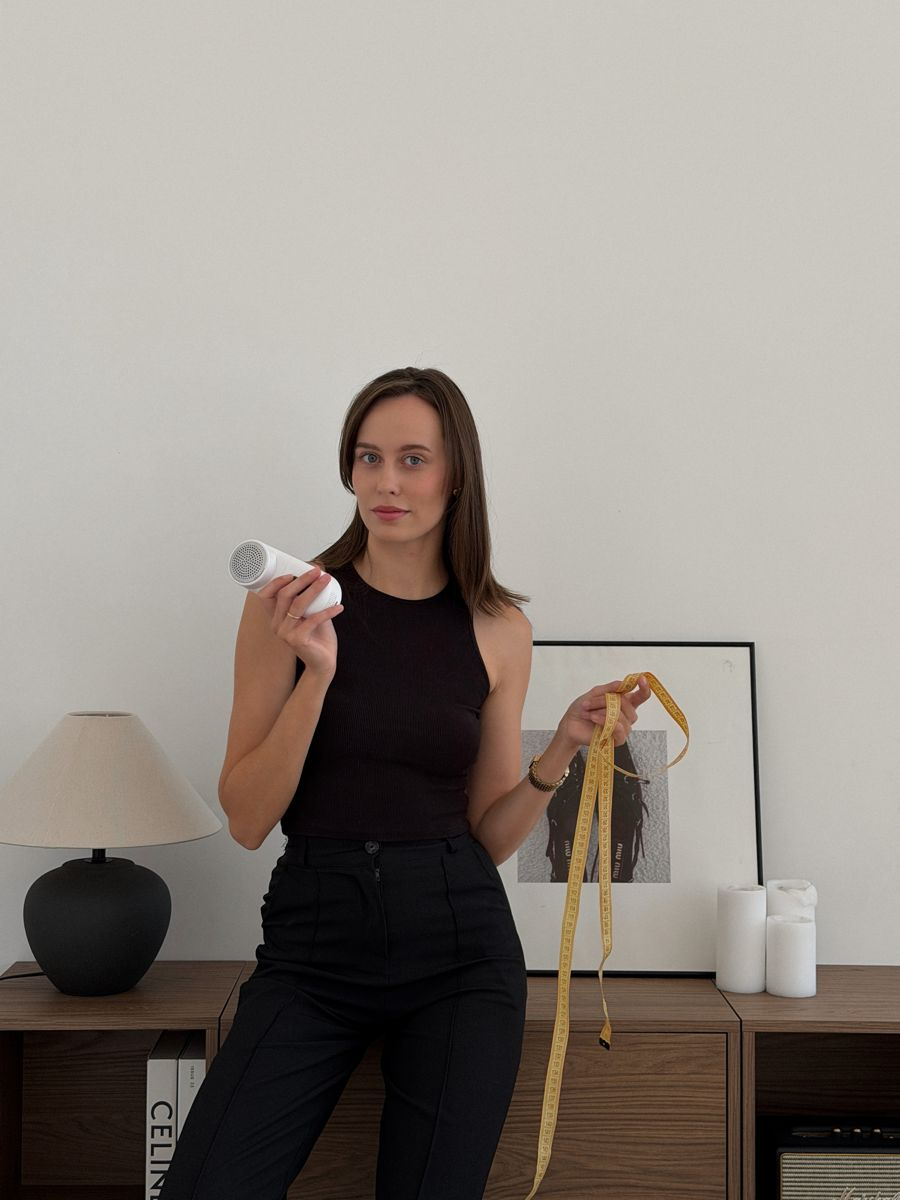
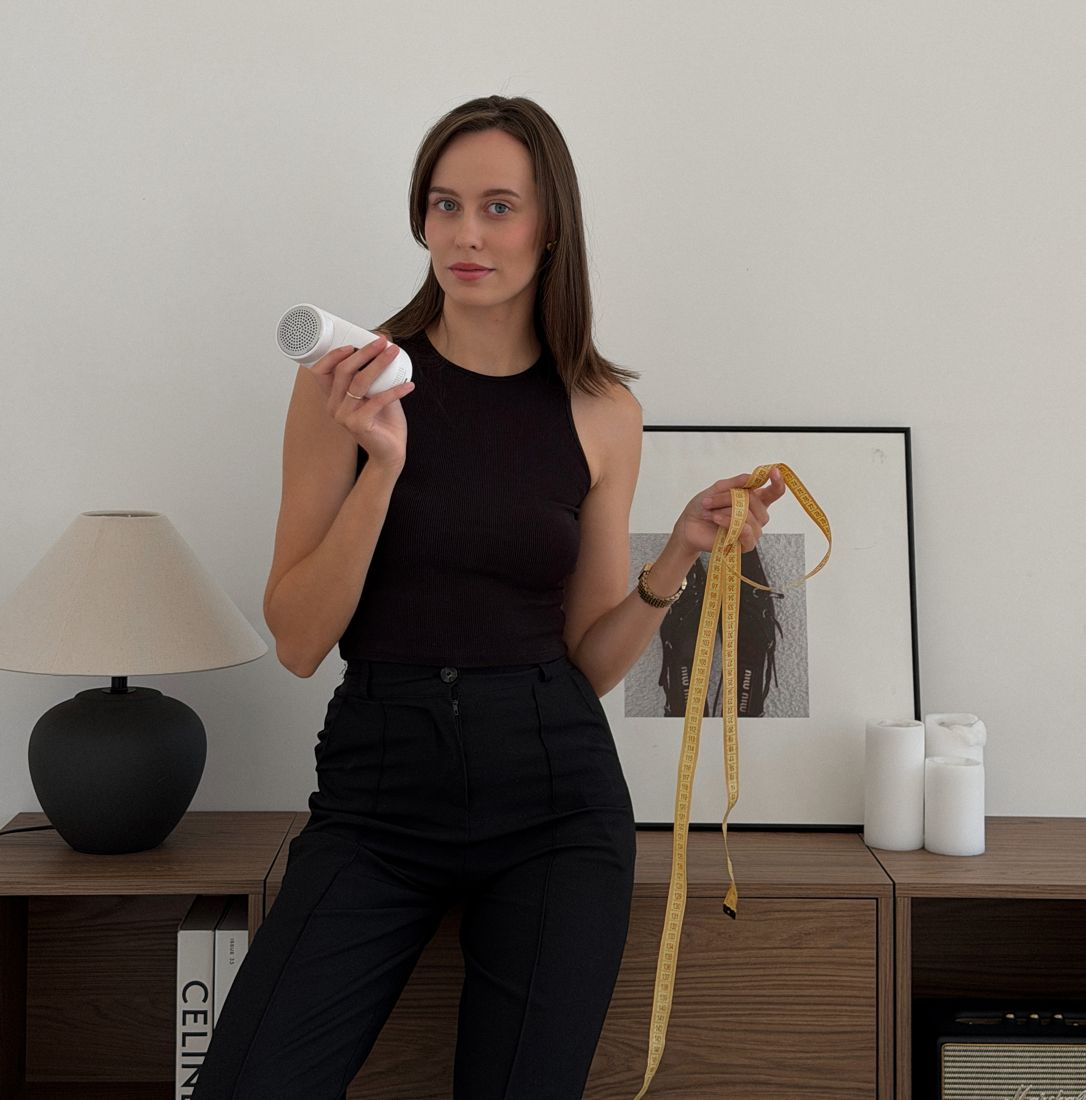
Крупное фото в «Привет, я Лиза»; фото-пауза без пустоты и затемнения на лице

diff --git a/index.html b/index.html
@@ -58,11 +58,13 @@
 
 /* ============ 2. ОБО МНЕ (письмо) ============ */
 .ek-letter{background:var(--sand)}
-.ek-letter .head{display:flex;gap:16px;align-items:center;margin:18px 0 20px}
-.ek-letter .ava{width:92px;height:112px;flex:0 0 92px;border-radius:18px;overflow:hidden}
-.ek-letter .ava img{width:100%;height:100%;object-fit:cover;object-position:40% 30%;display:block}
-.ek-letter .head h2{margin:0 0 6px}
-.ek-letter .role{font-size:13px;color:var(--muted);line-height:1.4}
+.ek-letter .me-photo{position:relative;border-radius:22px;overflow:hidden;height:440px;margin:16px 0 22px;background:#d9d4cc}
+.ek-letter .me-photo img{width:100%;height:100%;object-fit:cover;object-position:40% 20%;display:block}
+.ek-letter .me-photo:after{content:'';position:absolute;inset:0;background:linear-gradient(0deg,rgba(24,23,21,.85) 0%,rgba(24,23,21,.35) 30%,transparent 50%)}
+.ek-letter .me-cap{position:absolute;z-index:1;left:18px;right:18px;bottom:18px;color:#fff}
+.ek-letter .me-cap h2{margin:0 0 6px;color:#fff}
+.ek-letter .me-cap h2 em{color:#f1cdbd}
+.ek-letter .role{font-size:13.5px;line-height:1.4;color:#e9e2d6}
 .ek-letter p+p{margin-top:14px}
 .ek-letter .nums{display:grid;grid-template-columns:repeat(3,1fr);gap:8px;margin:20px 0}
 .ek-letter .nums div{background:var(--paper);border-radius:14px;padding:12px 10px}
@@ -249,9 +251,9 @@
 .ek-calc .hint b{color:var(--ink)}
 
 /* ============ 10. ФОТО-ПАУЗА ============ */
-.ek-break{position:relative;height:540px;overflow:hidden}
+.ek-break{position:relative;height:500px;overflow:hidden}
 .ek-break img{width:100%;height:100%;object-fit:cover;object-position:50% 0%;display:block}
-.ek-break:after{content:'';position:absolute;inset:0;background:linear-gradient(0deg,rgba(24,23,21,.9) 0%,rgba(24,23,21,.6) 38%,transparent 62%)}
+.ek-break:after{content:'';position:absolute;inset:0;background:linear-gradient(0deg,rgba(24,23,21,.92) 0%,rgba(24,23,21,.7) 30%,transparent 50%)}
 .ek-break p{position:absolute;z-index:1;bottom:28px;left:22px;right:22px;font-size:21px;font-weight:800;line-height:1.3;color:#fff;letter-spacing:-.02em}
 .ek-break p em{font-style:normal;color:#f1cdbd}
 .ek-break p span{display:block;font-size:12px;font-weight:600;letter-spacing:.12em;text-transform:uppercase;color:#e9e2d6;margin-top:12px}
@@ -346,12 +348,9 @@
 <!-- ===================== HTML-БЛОК 2: ОБО МНЕ ===================== -->
 <section class="ek-letter pad">
   <div class="eyebrow">Обо мне</div>
-  <div class="head">
-    <div class="ava"><img src="assets/letter.jpg?v=2" alt="Елизавета Чайкина"></div>
-    <div>
-      <h2>Привет, <em>я Лиза</em></h2>
-      <div class="role">Елизавета Чайкина — эксперт по продажам на Авито и ресейлу</div>
-    </div>
+  <div class="me-photo">
+    <img src="assets/letter.jpg?v=3" alt="Елизавета Чайкина">
+    <div class="me-cap"><h2>Привет, <em>я Лиза</em></h2><div class="role">Елизавета Чайкина — эксперт по продажам на Авито и ресейлу</div></div>
   </div>
   <p>Более 10 лет я продаю вещи на Авито. Когда-то это было просто хобби, которое помогало мне закрывать кредиты, досрочно гасить ипотеку, копить на путешествия и исполнять мечты.</p>
   <p>В декрете я решила превратить свой опыт в профессию: прошла обучение на авитолога и начала помогать другим продавать на площадке. Так увлечение стало источником дохода, который позволил мне зарабатывать <b>от 30 000 ₽ в месяц</b>, даже когда на руках был маленький ребёнок.</p>
@@ -613,7 +612,7 @@
 
 <!-- ===================== HTML-БЛОК 10: ФОТО-ПАУЗА ===================== -->
 <section class="ek-break">
-  <img src="assets/break.jpg?v=2" alt="">
+  <img src="assets/break.jpg?v=3" alt="">
   <p>«Я верю, что ненужные вещи могут стать деньгами, а грамотные продажи — <em>реальным инструментом для достижения финансовых целей</em>»<span>Елизавета Чайкина</span></p>
 </section>
 
